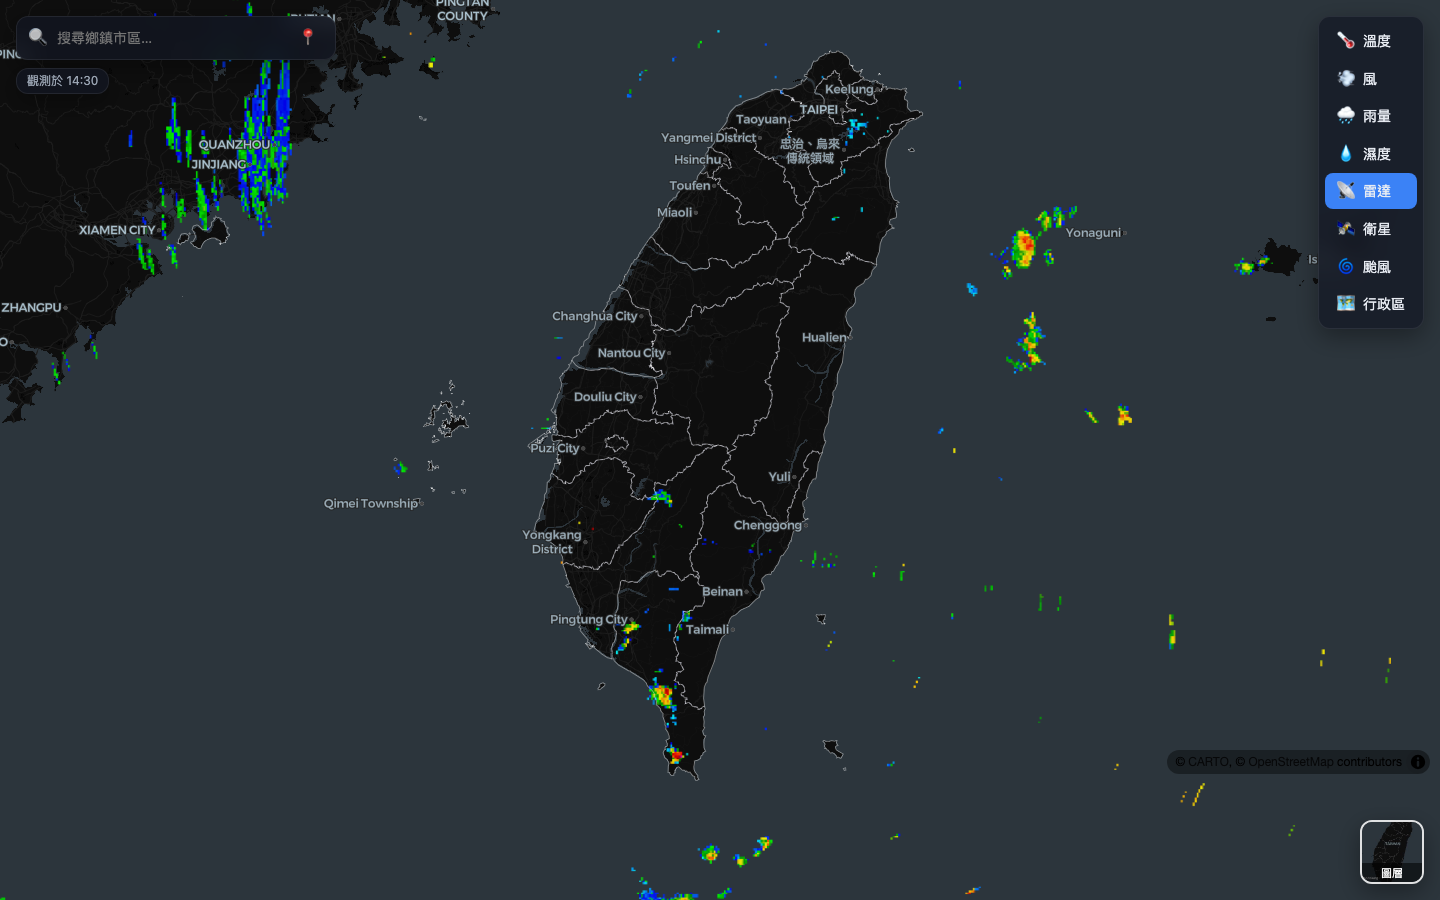
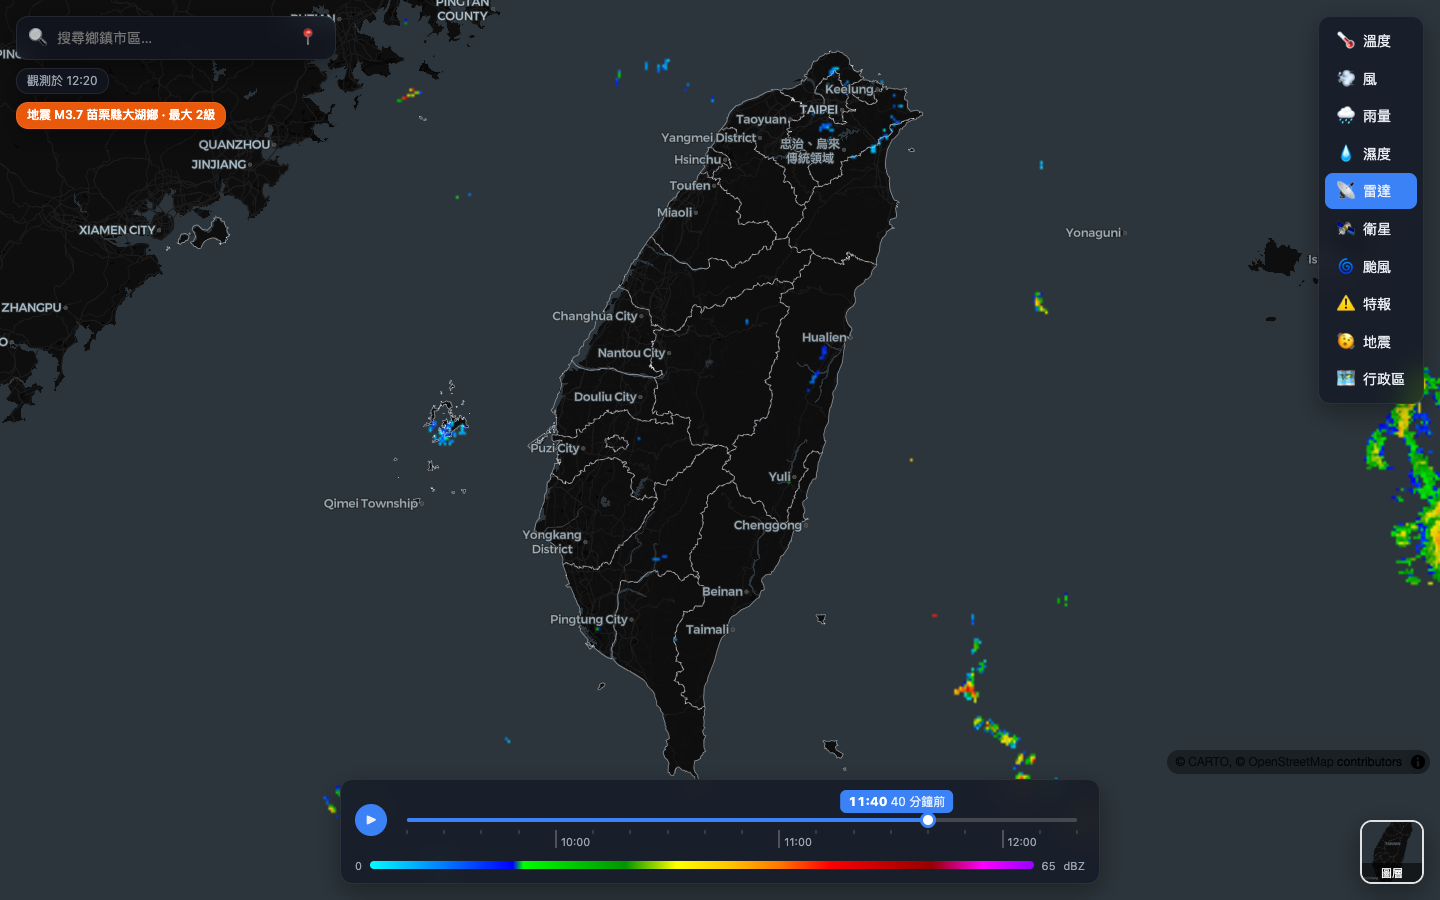
docs: add radar replay to readme
README 補上雷達 3 小時回放：功能說明、架構圖改為 historyapi 的
O-A0059-001 與 /api/radar-frame、TTL 表、專案結構、API 表，並重
截含時間軸的雷達截圖。

Document the three-hour radar replay in the README: the feature
list, the architecture diagram now showing O-A0059-001 from the
history API and /api/radar-frame, the TTL table, project layout
and API table, plus a new radar screenshot with the timeline.

diff --git a/README.md b/README.md
@@ -1,6 +1,6 @@
 # 台灣天氣地圖（CWA Open Data）
 
-類 Windy 的全螢幕互動天氣地圖：即時測站熱圖、風場粒子動畫、鄉鎮 72 小時／一週預報、雷達回波、衛星雲圖與颱風路徑。
+類 Windy 的全螢幕互動天氣地圖：即時測站熱圖、風場粒子動畫、鄉鎮 72 小時／一週預報、雷達回波（過去 3 小時回放）、衛星雲圖與颱風路徑。
 
 🌐 **線上網址：<https://aiot03.vercel.app>**
 
@@ -9,7 +9,7 @@
 | 溫度熱圖（即時測站 IDW 內插） | 風場粒子動畫 |
 |---|---|
 | ![溫度](docs/screenshots/temp.png) | ![風](docs/screenshots/wind.png) |
-| **雷達回波** | **衛星雲圖（色調強化）** |
+| **雷達回波（過去 3 小時回放）** | **衛星雲圖（色調強化）** |
 | ![雷達](docs/screenshots/radar.png) | ![衛星](docs/screenshots/satellite.png) |
 
 | 鄉鎮預報卡片（72 小時曲線＋一週預報） | 手機版 |
@@ -37,11 +37,12 @@
 - **十種圖層**：溫度、風、雨量、濕度、雷達、衛星、颱風、特報、地震、行政區
 - **即時熱圖**：全台自動站＋人工站觀測，以反距離權重（IDW）內插成連續色階，遠離測站處淡出
 - **風場粒子**：依測站風向風速內插的風場驅動粒子動畫
-- **時間軸**：拖曳或播放未來 72 小時（3 小時一格），切換為鄉鎮預報分區著色；播放時在時段間線性內插、顏色平滑漸變，「現在」與預報之間淡入淡出，停下時對齊整點時段；整條日期刻度可拖曳，跟隨標籤顯示日期與時間；雷達、颱風、行政區等無時間序列的圖層不顯示時間軸
+- **時間軸**：拖曳或播放未來 72 小時（3 小時一格），切換為鄉鎮預報分區著色；播放時在時段間線性內插、顏色平滑漸變，「現在」與預報之間淡入淡出，停下時對齊整點時段；整條日期刻度可拖曳，跟隨標籤顯示日期與時間；雷達另有過去 3 小時的回放時間軸，颱風、行政區等無時間序列的圖層不顯示時間軸
 - **縣市／鄉鎮界線**：所有圖層上疊加縣市界（含海岸線）與鄉鎮界，鄉鎮界放大後才漸漸浮現
 - **逐層選取**：在地圖上先點選縣市（框起並縮放過去），在該縣市內再點才選到鄉鎮；以鄉鎮多邊形判定點擊位置，搜尋框下方的麵包屑（`← 全台 › 縣市 › 鄉鎮`）可退回上一層
 - **行政區圖層**：只顯示縣市／鄉鎮界線與中文名稱，不疊天氣色階；點選的縣市或鄉鎮整塊填滿藍色，選到鄉鎮時同縣市其他鄉鎮淡淡上色
 - **鄉鎮查詢**：搜尋、定位或逐層點選鄉鎮，顯示目前天氣、72 小時溫度曲線與一週預報
+- **雷達回放**：過去 3 小時、每 10 分鐘一格的雷達回波格點（CWA 歷史 API `O-A0059-001`），server 依 CWA 官方色標畫成 PNG 並長期快取；可播放、拖曳與鍵盤切格，播到「現在」停 1.5 秒再重播，下方附 0–65 dBZ 圖例
 - **雷達／衛星**：經緯度等距影像逐列重投影為 Web Mercator 後疊圖；衛星紅外線雲圖可切換「色調強化」（依雲頂溫度由灰、藍、綠、黃到紅紫上色）或白色半透明雲層
 - **颱風**：活動中熱帶氣旋的過去／預測路徑、七級風暴風圈與 70% 潛勢圓，點路徑點看該時刻數值；切入時自動縮放到台灣與整條路徑
 - **特報**：發布中的縣市天氣特報依最嚴重種類為縣市著色（颱風警報、大豪雨、豪雨、大雨、低溫、強風、濃霧），資訊卡依種類列出縣市與有效時間；左上角徽章在任何圖層都提示目前特報，點了切到特報圖層
@@ -71,7 +72,7 @@ flowchart LR
     CDN["CDN 快取<br/>s-maxage=60, SWR=60"]
     subgraph Fn["Vercel Functions（api/*.ts）"]
       direction TB
-      API["路由<br/>observations · towns · forecast<br/>forecast-grid · radar · satellite · satellite-tile · typhoon · warnings · earthquakes"]
+      API["路由<br/>observations · towns · forecast<br/>forecast-grid · radar · radar-frame · satellite · satellite-tile<br/>typhoon · warnings · earthquakes"]
       Service["service.ts"]
       Fresh["freshness.ts<br/>TTL 檢查 · 併發去重 · 失敗退避"]
       Sync["sync.ts<br/>抓取 → parse → 寫入"]
@@ -89,8 +90,9 @@ flowchart LR
   subgraph CWA["中央氣象署開放資料平臺"]
     direction TB
     DS["datastore API<br/>O-A0001/0002/0003-001 觀測<br/>F-D0047-093 鄉鎮預報<br/>W-C0034-005 颱風路徑<br/>W-C0033-001 縣市特報<br/>E-A0015/0016-001 有感地震"]
-    FA["fileapi<br/>O-A0058-005 雷達<br/>O-B0033-003 衛星"]
-    S3["S3 公開檔<br/>雷達 PNG · 衛星 KMZ"]
+    HA["historyapi<br/>O-A0059-001 雷達回波格點（過去 3 小時）"]
+    FA["fileapi<br/>O-B0033-003 衛星"]
+    S3["S3 公開檔<br/>雷達格點 XML · 衛星 KMZ"]
   end
 
   subgraph Ext["第三方靜態資源"]
@@ -106,9 +108,10 @@ flowchart LR
   Query -- "GET /api/*" --> CDN
   Map --> Carto
   Render --> Atlas
-  Render -- "雷達 PNG" --> S3
   Sync --> DS
   Sync --> FA
+  Sync --> HA
+  API -- "radar-frame：雷達格點 XML" --> S3
   Sync -- "衛星 KMZ" --> S3
   Cron -- "Deploy Hook" --> Vercel
   Vercel -. "build: npm run build:db" .-> CWA
@@ -150,7 +153,7 @@ sequenceDiagram
 |---|---|---|
 | 測站觀測 | 5 分鐘 | 5 分鐘 |
 | 鄉鎮預報 | 60 分鐘 | 10 分鐘（時段清單） |
-| 雷達 | 10 分鐘 | 10 分鐘 |
+| 雷達時間清單 | 10 分鐘 | 10 分鐘（單格 PNG 長期快取） |
 | 衛星 | 10 分鐘 | 10 分鐘 |
 | 颱風 | 30 分鐘 | 10 分鐘 |
 | 特報 | 10 分鐘 | 10 分鐘 |
@@ -177,6 +180,9 @@ aiot03/
 ├── api/                  # Vercel Functions 進入點（每個檔案一個端點）
 ├── server/
 │   ├── cwa/              # CWA client、JSON/KMZ 解析
+│   ├── radar.ts          # 雷達格點解析與上色
+│   ├── radarFrame.ts     # 單格雷達 PNG 回應
+│   ├── png.ts            # PNG 編碼
 │   ├── db.ts             # SQLite schema、種子 DB 複製到 /tmp
 │   ├── freshness.ts      # TTL、併發去重、失敗退避
 │   ├── sync.ts           # 各資料集抓取與寫入
@@ -184,6 +190,7 @@ aiot03/
 │   ├── service.ts        # 組合 freshness + repo 給 api/ 使用
 │   └── http.ts           # JSON 回應、Cache-Control、錯誤處理
 ├── shared/types.ts       # 前後端共用型別
+├── shared/radar.ts       # 雷達色標與格點範圍（前後端共用）
 ├── frontend/src/
 │   ├── components/       # MapView、DataLayers、WindParticles、Timeline、LocationCard…
 │   ├── map/              # MapLibre 圖層 hooks（image overlay、choropleth）
@@ -198,7 +205,7 @@ aiot03/
 ## 技術棧
 
 - 前端：React 19、Vite、MapLibre GL、TanStack Query、Zustand、Recharts、topojson-client
-- 後端：Vercel Functions（Node.js 22）、better-sqlite3、fflate（解 KMZ）
+- 後端：Vercel Functions（Node.js 22）、better-sqlite3、fflate（解 KMZ、PNG 壓縮）
 - 測試：Vitest（含 CWA 回應 fixtures）
 - 資料來源：[中央氣象署開放資料平臺](https://opendata.cwa.gov.tw)
 
@@ -226,7 +233,8 @@ aiot03/
 | `GET /api/towns` | 鄉鎮清單與中心點 |
 | `GET /api/forecast?town=ID` | 鄉鎮 3 小時與一週預報 |
 | `GET /api/forecast-grid[?time=ISO]` | 預報時段清單與指定時段全台鄉鎮數值 |
-| `GET /api/radar` | 最新雷達回波圖片資訊 |
+| `GET /api/radar` | 過去 3 小時雷達格點的時間與各格網址 |
+| `GET /api/radar-frame?t=YYYYMMDDHHmm` | 單格雷達回波（PNG，長期快取） |
 | `GET /api/satellite` | 最新衛星雲圖圖塊清單 |
 | `GET /api/satellite-tile?id=2/1/2` | 衛星雲圖圖塊（PNG，存於 SQLite） |
 | `GET /api/typhoon` | 活動中熱帶氣旋的過去與預測路徑 |
